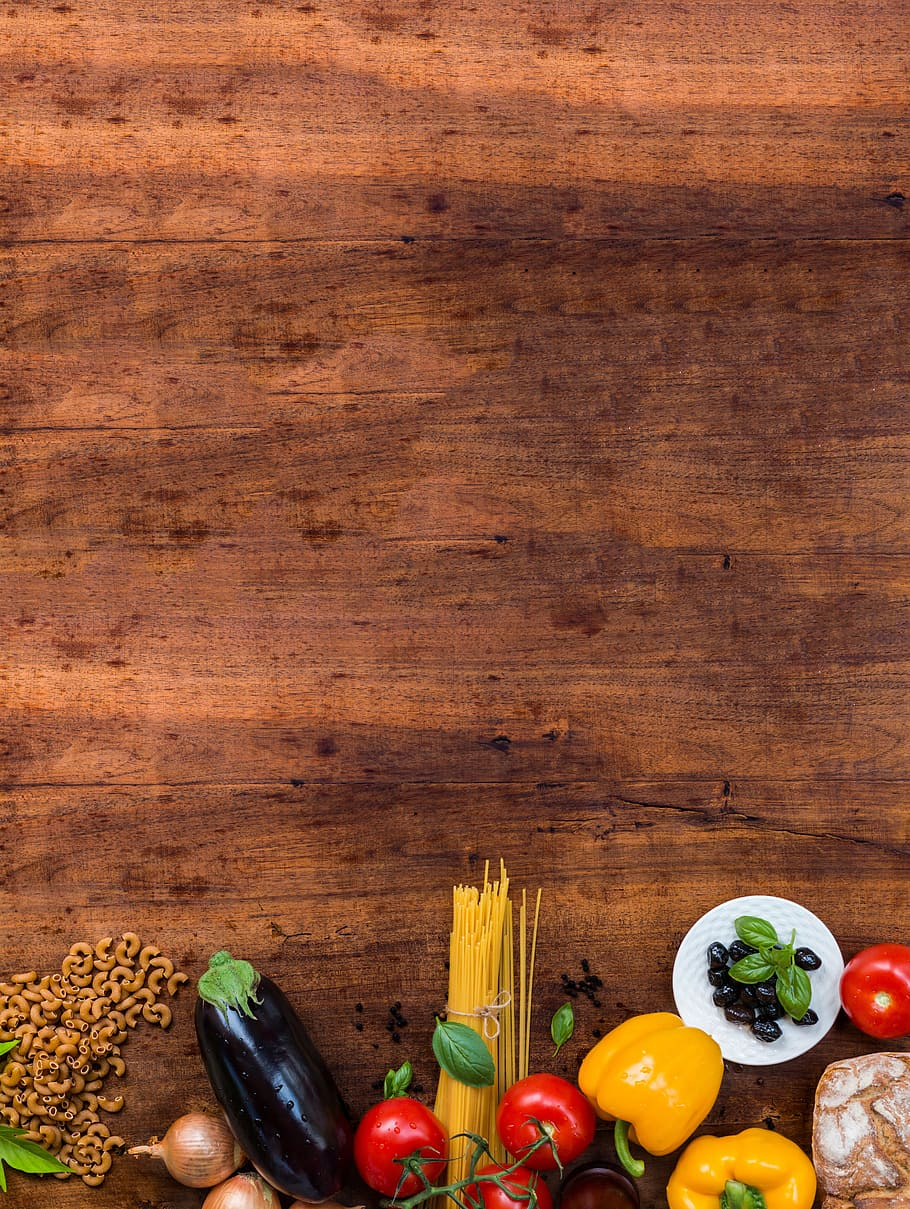
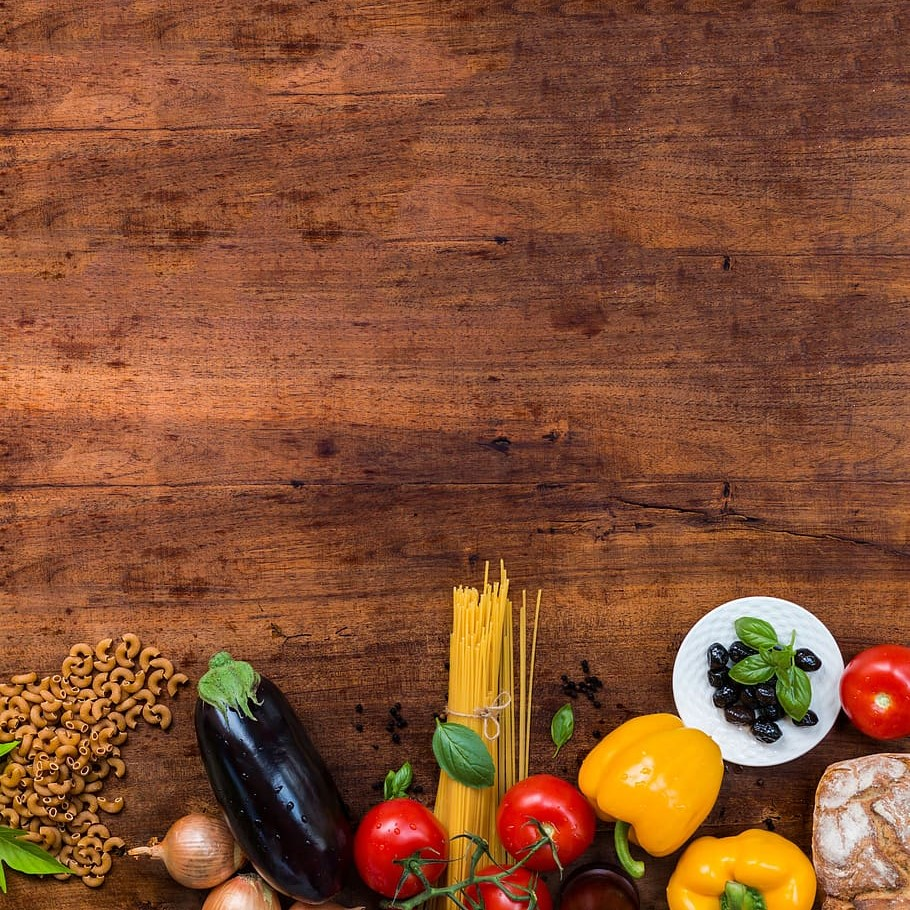
added a background and styling and some react code

diff --git a/frontend/src/main.jsx b/frontend/src/main.jsx
@@ -1,33 +1,35 @@
 import React from 'react';
-import ReactDOM from 'react-dom';
-import Component1 from './components/Component1';
-import Component2 from './components/Component2';
+import { createRoot } from 'react-dom/client';
+import App from './App';
 
-// This code is necessary to mount the react components when the page is fully loaded.  This allows for proper functionality in the spring boot environment.  For developement you will need to comment it out and use the code below.  When bringing over into IntelliJ you will have to rebuild it(npm run build) and then copy the dist folder(replacing the existing) and updating the JS file in the script source
-document.addEventListener('DOMContentLoaded', () => {
-  const component1Mount = document.querySelector(
-    '[data-react-component="component-1-mount"]'
-  );
-  const component2Mount = document.querySelector(
-    '[data-react-component="component-2-mount"]'
-  );
+const rootElement = document.getElementById('root');
 
-  if (component1Mount) {
-    ReactDOM.render(<Component1 />, component1Mount);
-  }
-
-  if (component2Mount) {
-    ReactDOM.render(<Component2 />, component2Mount);
-  }
-});
+if (rootElement) {
+  createRoot(rootElement).render(<App />);
+} else {
+  console.error("The 'root' element does not exist in the DOM.");
+}
 
 //////////////////////////////////////////////
 
-// import App from './App.jsx';
+// This code is necessary to mount the react components when the page is fully loaded.  This allows for proper functionality in the spring boot environment.  For developement you will need to comment it out and use the code below.  When bringing over into IntelliJ you will have to rebuild it(npm run build) and then copy the dist folder(replacing the existing) and updating the JS file in the script source
 
-// ReactDOM.render(
-//   <React.StrictMode>
-//     <App />
-//   </React.StrictMode>,
-//   document.getElementById('root')
-// );
+import Component1 from './components/RecipeSearchComponent.jsx';
+import Component2 from './components/Component2';
+
+// document.addEventListener('DOMContentLoaded', () => {
+//   const component1Mount = document.querySelector(
+//     '[data-react-component="component-1-mount"]'
+//   );
+//   const component2Mount = document.querySelector(
+//     '[data-react-component="component-2-mount"]'
+//   );
+
+//   if (component1Mount) {
+//     ReactDOM.render(<Component1 />, component1Mount);
+//   }
+
+//   if (component2Mount) {
+//     ReactDOM.render(<Component2 />, component2Mount);
+//   }
+// });

diff --git a/frontend/src/components/RecipeSearchComponent.jsx b/frontend/src/components/RecipeSearchComponent.jsx
@@ -1,0 +1,65 @@
+import React, { useState } from 'react';
+import config from '../../config';
+
+export default function RecipeSearchComponent() {
+  const [searchTerm, setSearchTerm] = useState('');
+  const [searchResults, setSearchResults] = useState([]);
+  const apiKey = config.API_KEY;
+  const maxResults = 1;
+
+  const handleInputChange = (event) => {
+    setSearchTerm(event.target.value);
+  };
+
+  const handleSubmit = async (event) => {
+    event.preventDefault();
+
+    try {
+      const apiUrl = `https://api.spoonacular.com/recipes/complexSearch?apiKey=${apiKey}&query=${encodeURIComponent(
+        searchTerm
+      )}&number=${maxResults}`;
+      const response = await fetch(apiUrl);
+
+      if (!response.ok) {
+        throw new Error('Network response was not ok.');
+      }
+
+      const data = await response.json();
+      console.log(data);
+      setSearchResults(data);
+      // Handle the retrieved data as needed (e.g., update state, display results)
+    } catch (error) {
+      console.error('There was a problem with the fetch operation:', error);
+      // Handle errors (e.g., show error message to the user)
+    }
+  };
+
+  return (
+    <div>
+      <form onSubmit={handleSubmit}>
+        <input
+          type="text"
+          value={searchTerm}
+          onChange={handleInputChange}
+          placeholder="Search for a recipe here"
+        />
+        <button type="submit">Search</button>
+      </form>
+      {searchResults && searchResults.length > 0 ? (
+        <div className="search-results">
+          <h2>Search Results</h2>
+          <ul>
+            {searchResults.map((result, index) => (
+              <li key={index}>
+                <h3>{result.title}</h3>
+                <img src={result.image} alt={result.title} />
+              </li>
+            ))}
+          </ul>
+        </div>
+      ) : (
+        <p>No results found</p>
+      )}
+    </div>
+  );
+}

diff --git a/src/main/resources/static/css/recipebook.css b/src/main/resources/static/css/recipebook.css
@@ -1,5 +1,37 @@
 
 body {
-margin-top: 50px;
-background-color: lightyellow;
+    margin-top: 50px;
+    padding: 0;
+    overflow-x: hidden;
+    display: flex;
+    flex-direction: column;
+    min-height: 100vh;
+    position: relative;
+    color: black;
+}
+
+body::before {
+    content: '';
+    position: absolute;
+    top: 0;
+    right: 0;
+    bottom: 0;
+    left: 0;
+    background-image: url('../images/background.jpg');
+    background-size: 100%, 100%;
+    background-position: center;
+    background-repeat: no-repeat;
+    opacity: 0.4;
+}
+
+.search-results {
+    border: 3px solid;
+    border-color: purple;
+    height: 800px;
+    width: 500px;
+    margin-left: 5px;
+}
+
+.recipe-search {
+
 }

diff --git a/src/main/resources/templates/index.html b/src/main/resources/templates/index.html
@@ -7,11 +7,16 @@
 <div th:replace="~{fragments :: header}"></div>
 
 <div class="container body-content">
-    <h2>Recipe Book</h2>
 </div>
 
-
 <div data-react-component="component-1-mount"></div>
+<!--<form class="recipe-search" action="/search" method="get">-->
+<!--    <input type="text" id="search" name="search" placeholder="Search for a recipe here">-->
+<!--    <button type="submit">Search</button>-->
+<!--</form>-->
+
+<div class="search-results"></div>
+
 <div data-react-component="component-2-mount"></div>
 <script th:src="@{/dist/assets/index-696c4d61.js}"></script> <!-- Reference to your React app's JavaScript bundle -->
 

diff --git a/frontend/src/App.jsx b/frontend/src/App.jsx
@@ -1,13 +1,13 @@
 import { useState } from 'react';
 import './App.css';
-import Component1 from './components/Component1';
+import RecipeSearchComponent from './components/RecipeSearchComponent';
 import Component2 from './components/Component2';
 
 function App() {
   return (
     <>
-      <div id="component-1">
-        <Component1 />
+      <div id="recipe-search-component">
+        <RecipeSearchComponent />
       </div>
       <div id="component-2">
         <Component2 />
